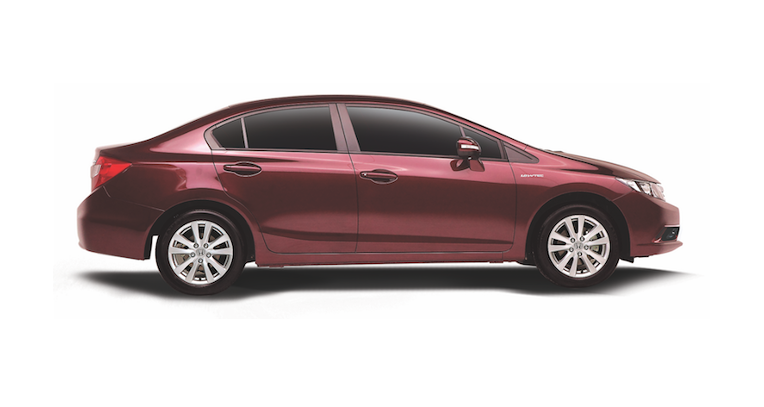
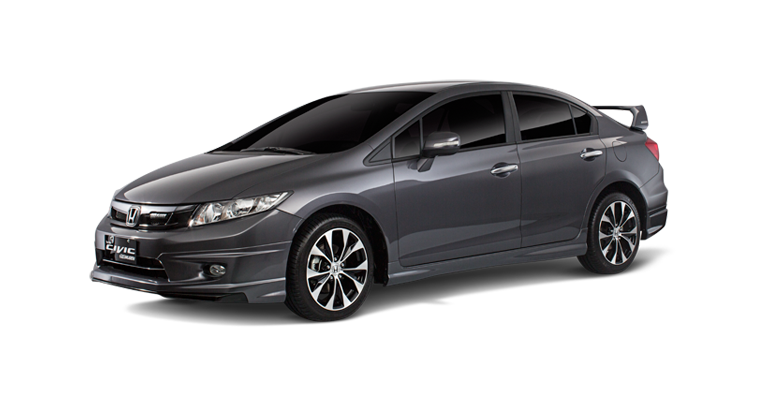
added HR-V and replace model photo of Civic

diff --git a/static/html/honda_hrv.html b/static/html/honda_hrv.html
@@ -1,0 +1,106 @@
+<!DOCTYPE html >
+<html lang="en">
+  <head>
+    <!-- Title block allowing child pages to override-->
+    <title>DecalEmpire</title>
+    <meta charset="utf-8"/>
+    <meta http-equiv="X-UA-Compatible" content="IE=edge,chrome=1"/>
+    <meta name="description" content=""/>
+    <meta name="viewport" content="width=device-width, initial-scale=1"/>
+    <link rel="icon" type="image/png" href="//getbootstrap.com/favicon.ico"/>
+    <link href="//fonts.googleapis.com/css?family=Russo+One" rel="stylesheet" type="text/css"/>
+    <!-- Bower Components-->
+    <link href="bower_components/bootstrap/dist/css/bootstrap.css" rel="stylesheet" type="text/css"/>
+    <link href="bower_components/font-awesome/css/font-awesome.css" rel="stylesheet" type="text/css"/>
+    <link href="bower_components/flexslider/flexslider.css" rel="stylesheet" type="text/css"/>
+    <link href="assets/css/ie10-viewport-bug-workaround.css" rel="stylesheet"/>
+    <link href="assets/css/hack.css" rel="stylesheet"/>
+    <link href="assets/css/cover.css" rel="stylesheet"/>
+    <link href="assets/css/main.css" rel="stylesheet"/>
+    <link href="assets/css/paint.css" rel="stylesheet"/>
+    <link href="assets/css/page.css" rel="stylesheet"/><!-- HTML5 shim and Respond.js for IE8 support of HTML5 elements and media queries -->
+    <!-- WARNING: Respond.js doesn't work if you view the page via file:// -->
+    <!--[if lt IE 9]>
+    <script src="//oss.maxcdn.com/html5shiv/3.7.2/html5shiv.min.js"></script>
+    <script src="//oss.maxcdn.com/respond/1.4.2/respond.min.js"></script>
+    <![endif]-->
+  </head>
+  <body>
+    <!-- Static navbar-->
+    <nav class="navbar navbar-default">
+      <div class="container">
+        <div class="navbar-header">
+          <button type="button" data-toggle="collapse" data-target="#navbar" aria-expanded="false" aria-controls="navbar" class="navbar-toggle collapsed"><span class="sr-only">Toggle navigation</span><span class="icon-bar"></span><span class="icon-bar"></span><span class="icon-bar"></span></button><a href="index" class="navbar-brand"><img src="assets/images/logo/logo.jpg" alt=""/></a>
+        </div>
+        <div id="navbar" class="navbar-collapse collapse">
+          <ul class="nav navbar-nav navbar-right">
+            <li><a href="index">Home</a></li>
+            <li><a href="honda">Models</a></li>
+            <li><a href="contact">Contact</a></li>
+          </ul>
+        </div>
+      </div>
+    </nav>
+    <div class="container">
+      <ol class="breadcrumb">
+        <li><a href="index">Home</a></li>
+        <li><a href="honda">Models</a></li>
+      </ol>
+      <div class="card">
+        <div class="row">
+          <div class="col-md-8">
+            <div id="slider" class="flexslider">
+              <ul class="slides">
+                <li><img src="assets/images/models/list/12/color/paint_1/1.png"/></li>
+                <li><img src="assets/images/models/list/12/color/paint_1/2.png"/></li>
+              </ul>
+            </div>
+            <div id="carousel" class="flexslider">
+              <ul class="slides">
+                <li><img src="assets/images/models/list/12/color/paint_1/1.png"/></li>
+                <li><img src="assets/images/models/list/12/color/paint_1/2.png"/></li>
+              </ul>
+            </div>
+          </div>
+          <div class="col-md-4">
+            <h1>HR-V</h1><br/>
+            <p>Colors are available in matte or gloss quality please see swatches for more colors.</p>
+            <p>Visit your nearest&nbsp;<a href="contact">dealer</a>&nbsp;now.</p>
+            <hr/><strong>Colors</strong>
+            <div class="paint">
+              <div class="paint--colors hrv">
+                <div data-color="1" class="colors _1"></div>
+                <div data-color="2" class="colors _2"></div>
+                <div data-color="3" class="colors _3"></div>
+                <div data-color="4" class="colors _4"></div>
+                <div data-color="5" class="colors _5"></div>
+                <div data-color="6" class="colors _6"></div>
+              </div>
+            </div>
+            <hr/><strong>Variants</strong>
+            <ul>
+              <li>1.8 S CVT</li>
+              <li>1.8 E CVT</li>
+              <li>1.8 EL CVT</li>
+              <li>1.8 E Modulo CVT</li>
+              <li>1.8 EL MUGEN CVT</li>
+            </ul>
+          </div>
+        </div>
+      </div>
+      <footer>
+        <p><small>Copyright <a href="#">DecalEmpire 2016</a></small></p>
+      </footer>
+    </div>
+    
+    <!-- Bower Components-->
+    <script src="bower_components/jquery/dist/jquery.js" type="text/javascript"></script>
+    <script src="bower_components/jquery.cookie/jquery.cookie.js" type="text/javascript"></script>
+    <script src="bower_components/bootstrap/dist/js/bootstrap.js" type="text/javascript"></script>
+    <script src="bower_components/flexslider/jquery.flexslider-min.js" type="text/javascript"></script>
+    <script src="assets/scripts/ie10-viewport-bug-workaround.js" type="text/javascript"></script>
+    <script src="assets/scripts/main.js" type="text/javascript"></script>
+    <!-- page scripts goes here...-->
+    <!-- External Script goes here...-->
+  </body>
+</html>

diff --git a/static/html/contact.html b/static/html/contact.html
@@ -47,19 +47,19 @@
             <hr/>
             <div class="row">
               <div class="col-md-4 col-md-offset-2">
-                <h3>Makati</h3>
-                <h3>Pasig</h3>
-                <h3>Alabang</h3>
-                <h3>Shaw</h3>
-                <h3>Global City</h3>
-                <h3>Manila Bay</h3>
+                <h3>Honda Makati</h3>
+                <h3>Honda Pasig</h3>
+                <h3>Honda Alabang</h3>
+                <h3>Honda Shaw</h3>
+                <h3>Honda Global City</h3>
+                <h3>Honda Manila Bay</h3>
               </div>
               <div class="col-md-4">
-                <h3>Cebu</h3>
-                <h3>Mandaue</h3>
-                <h3>Cagayan De Oro</h3>
-                <h3>Negros Occidental</h3>
-                <h3>Iloilo</h3>
+                <h3>Honda Cebu</h3>
+                <h3>Honda Mandaue</h3>
+                <h3>Honda Cagayan De Oro</h3>
+                <h3>Honda Negros Occidental</h3>
+                <h3>Honda Iloilo</h3>
               </div>
             </div>
           </div>

diff --git a/static/html/honda.html b/static/html/honda.html
@@ -43,8 +43,8 @@
     </nav>
     <div class="container">
       <ol class="breadcrumb">
-        <li><a href="#">Home</a></li>
-        <li><a href="#">Models</a></li>
+        <li><a href="index">Home</a></li>
+        <li><a href="honda">Models</a></li>
       </ol>
       <div class="card">
         <div class="row">
@@ -122,6 +122,13 @@
             <div class="model-thumb"><a href="honda_legend"><img src="assets/images/models/model_legend.png" alt="" class="img-responsive"/></a>
               <div class="details">
                 <h3>Legend</h3>
+              </div>
+            </div>
+          </div>
+          <div class="col-md-6">
+            <div class="model-thumb"><a href="honda_hrv"><img src="assets/images/models/model_hrv.png" alt="" class="img-responsive"/></a>
+              <div class="details">
+                <h3>HR-V</h3>
               </div>
             </div>
           </div>

diff --git a/static/html/index.html b/static/html/index.html
@@ -43,8 +43,8 @@
           </div>
           <div class="inner cover">
             <h1 class="cover-heading">Drive your Dreams</h1>
-            <p class="lead">Bringing you the widest selection and helping you decide for the best choice.</p>
-            <p class="lead"><a href="#" class="btn btn-lg btn-success">Learn more</a></p>
+            <p class="lead">Bringing you the widest selection and helping you decide the best color choice.</p>
+            <p class="lead"><a href="honda" class="btn btn-lg btn-success">Learn more</a></p>
           </div>
           <div class="mastfoot">
             <div class="inner">

diff --git a/static/assets/css/paint.css b/static/assets/css/paint.css
@@ -190,6 +190,25 @@
 .paint--colors.legend .colors._6 {
 	background-color: #3D1515;
 }
+/*hrv*/
+.paint--colors.hrv .colors._1 {
+	background-color: #0E2359;
+}
+.paint--colors.hrv .colors._2 {
+	background-color: #3C1214;
+}
+.paint--colors.hrv .colors._3	 {
+	background-color: #212830;
+}
+.paint--colors.hrv .colors._4 {
+	background-color: #04040A;
+}
+.paint--colors.hrv .colors._5 {
+	background-color: #FEFEFE;
+}
+.paint--colors.hrv .colors._6 {
+	background-color: #CBC7CA;
+}
 /*---------[paint end]----------*/
 
 

diff --git a/static/html/assets/css/paint.css b/static/html/assets/css/paint.css
@@ -190,6 +190,25 @@
 .paint--colors.legend .colors._6 {
 	background-color: #3D1515;
 }
+/*hrv*/
+.paint--colors.hrv .colors._1 {
+	background-color: #0E2359;
+}
+.paint--colors.hrv .colors._2 {
+	background-color: #3C1214;
+}
+.paint--colors.hrv .colors._3	 {
+	background-color: #212830;
+}
+.paint--colors.hrv .colors._4 {
+	background-color: #04040A;
+}
+.paint--colors.hrv .colors._5 {
+	background-color: #FEFEFE;
+}
+.paint--colors.hrv .colors._6 {
+	background-color: #CBC7CA;
+}
 /*---------[paint end]----------*/
 
 

diff --git a/static/html/brand.html b/static/html/brand.html
@@ -43,8 +43,8 @@
     </nav>
     <div class="container">
       <ol class="breadcrumb">
-        <li><a href="#">Home</a></li>
-        <li><a href="#">Models</a></li>
+        <li><a href="index">Home</a></li>
+        <li><a href="honda">Models</a></li>
       </ol>
       <div class="card">
         <div class="row">

diff --git a/static/html/honda_accord.html b/static/html/honda_accord.html
@@ -43,8 +43,8 @@
     </nav>
     <div class="container">
       <ol class="breadcrumb">
-        <li><a href="#">Home</a></li>
-        <li><a href="#">Models</a></li>
+        <li><a href="index">Home</a></li>
+        <li><a href="honda">Models</a></li>
       </ol>
       <div class="card">
         <div class="row">

diff --git a/static/html/honda_amaze.html b/static/html/honda_amaze.html
@@ -43,8 +43,8 @@
     </nav>
     <div class="container">
       <ol class="breadcrumb">
-        <li><a href="#">Home</a></li>
-        <li><a href="#">Models</a></li>
+        <li><a href="index">Home</a></li>
+        <li><a href="honda">Models</a></li>
       </ol>
       <div class="card">
         <div class="row">

diff --git a/static/html/honda_brio.html b/static/html/honda_brio.html
@@ -43,8 +43,8 @@
     </nav>
     <div class="container">
       <ol class="breadcrumb">
-        <li><a href="#">Home</a></li>
-        <li><a href="#">Models</a></li>
+        <li><a href="index">Home</a></li>
+        <li><a href="honda">Models</a></li>
       </ol>
       <div class="card">
         <div class="row">

diff --git a/static/html/honda_city.html b/static/html/honda_city.html
@@ -43,8 +43,8 @@
     </nav>
     <div class="container">
       <ol class="breadcrumb">
-        <li><a href="#">Home</a></li>
-        <li><a href="#">Models</a></li>
+        <li><a href="index">Home</a></li>
+        <li><a href="honda">Models</a></li>
       </ol>
       <div class="card">
         <div class="row">

diff --git a/static/html/honda_civic.html b/static/html/honda_civic.html
@@ -43,8 +43,8 @@
     </nav>
     <div class="container">
       <ol class="breadcrumb">
-        <li><a href="#">Home</a></li>
-        <li><a href="#">Models</a></li>
+        <li><a href="index">Home</a></li>
+        <li><a href="honda">Models</a></li>
       </ol>
       <div class="card">
         <div class="row">
